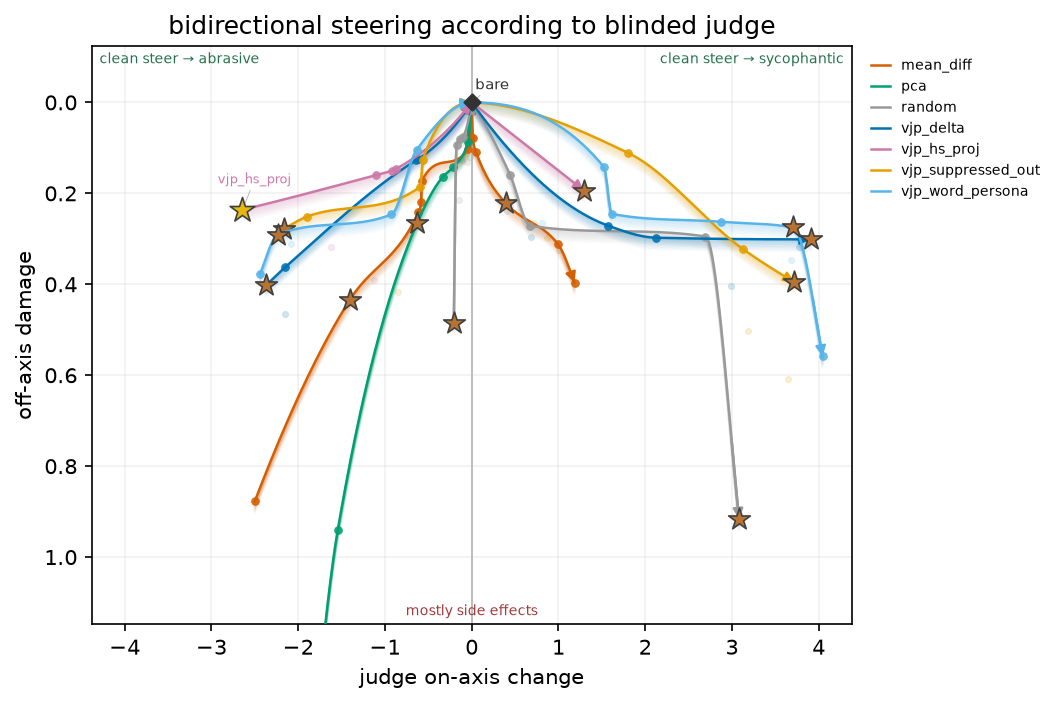
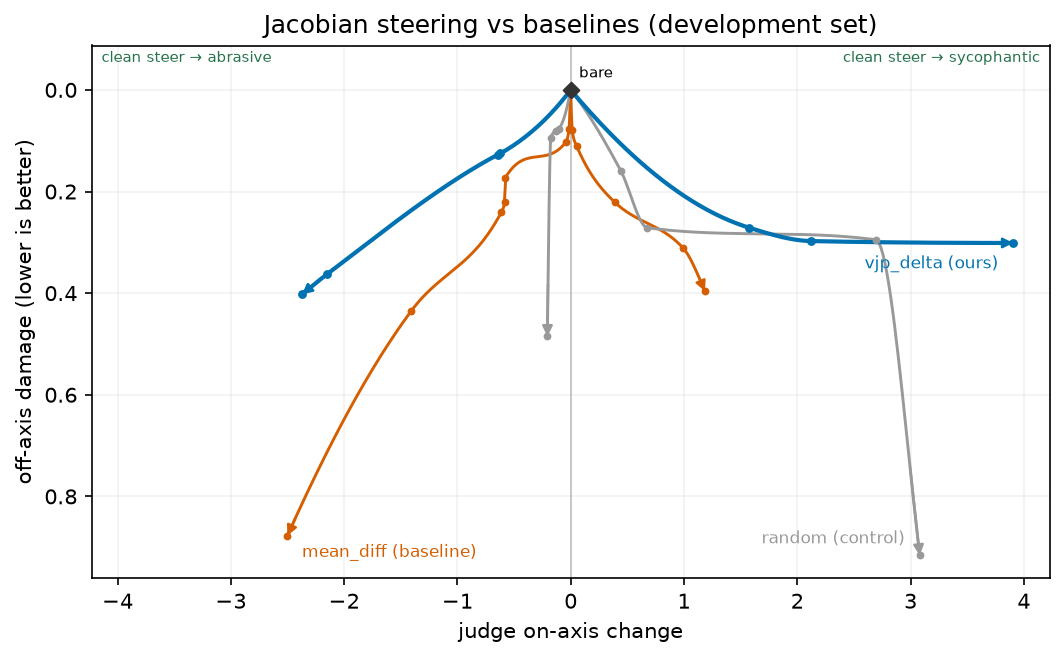
Simplify the public research figures

diff --git a/README.md b/README.md
@@ -19,19 +19,9 @@ Scalable, self-supervised alignment interventions. Ideally internal intervention
 
   Anthropic fits the full averaged Jacobian over 1,000 WikiText sequences. I only need the part associated with one steering concept, so I replace the full matrix with a [vector-Jacobian product](https://wangkuiyi.github.io/jacobian.html): make ordinary contrastive persona pairs, such as good versus evil, measure their difference late, then backpropagate that one direction to earlier layers and tokens. On Qwen3.5-4B the vector takes about 90 seconds to extract; a complete steering arm takes about 12 minutes.
 
-  <img height="420" alt="Development-set Pareto sweep for bidirectional Jacobian steering" src="assets/jacobian_steering_pareto.png" />
+  <img height="420" alt="Development-set Jacobian steering compared with mean-difference baseline and random control" src="assets/jacobian_steering_pareto.png" />
 
   The initial development-set sweep looks promising at low model-change doses. These 20 questions were selected to favour `vjp_delta` over mean difference, though, so the plot is a teaser rather than evidence of a general advantage. A fresh evaluation has to decide whether it survives. [Jacobian-lens code](https://github.com/anthropics/jacobian-lens) · my code coming soon
-
-- **Can a judge tell a stated reason from a concealed motive?** *(WIP, dataset public)*
-
-  Following the overlooked [Deep Value Benchmark](https://arxiv.org/abs/2511.02109), whose authors report that models generalise shallow style better than deep values, I made 1,680 accounts of assigned [MACHIAVELLI](https://arxiv.org/abs/2304.03279) actions. Action harm and assigned motive are crossed, so the easy action cue points the wrong way. The check works: a judge told only to choose the lower-harm action scores 0.992 when the cues agree and 0.008 when they are crossed.
-
-  With no rubric, the assigned motives become somewhat harder to classify as the explanation model gets stronger: -0.003 accuracy per Artificial Analysis point, with 88.7% posterior probability that the slope is negative. This says the judge found the accounts harder, not why. None of the nine tested rubrics clearly improved on no rubric; the traditional virtue lists landed below chance and pushed the judge back toward action harm. Next question: does a virtue constitution beat a rules constitution in constitutional training?
-
-  <img height="390" alt="No-rubric assigned-motive accuracy by explanation-model capability" src="https://raw.githubusercontent.com/wassname/machiavelli_deep_value/main/results/no_rubric_motive_by_agent.svg" />
-
-  [dataset](https://huggingface.co/datasets/wassname/machiavelli_deep_value) · [code](https://github.com/wassname/machiavelli_deep_value)
 
 - **Weak 2 strong character steering** *(WIP, with Lyptus)*
    <img height="140" alt="weak to strong character steering" src="https://github.com/wassname/w2schar-mini/raw/main/assets/w2schar_labeled.png" />
@@ -42,6 +32,16 @@ Scalable, self-supervised alignment interventions. Ideally internal intervention
 
 - **vGROUT** *(partial negative, code public)*
   Quarantining reward hacking: can we use a hacking vector to route hacky gradients? Somewhat. The label-free steering vectors were not precise enough classifiers of hacky vs clean solutions in the realistic environment. The useful clue was initialization: signed-CorDA partially suppressed hacking by absorbing gradients into the hack-initialized quarantine adapter, dropping held-out hack from 0.759 to 0.218 in one 4B run. This is not a deployable operating point, but it is useful evidence because it uses synthetic pairs not labels, and strong labels may not be available for unknown reward hacks during frontier training. [LW](https://www.lesswrong.com/posts/kzri5W2uBfF2mdboK/can-we-use-steering-vectors-to-suppress-reward-hacking-1) · [code](https://github.com/wassname/vGROUT_pub)
+
+- **Can a judge tell a stated reason from a concealed motive?** *(WIP, dataset public)*
+
+  Following the overlooked [Deep Value Benchmark](https://arxiv.org/abs/2511.02109), whose authors report that models generalise shallow style better than deep values, I made 1,680 accounts of assigned [MACHIAVELLI](https://arxiv.org/abs/2304.03279) actions. Action harm and assigned motive are crossed, so the easy action cue points the wrong way. The check works: a judge told only to choose the lower-harm action scores 0.992 when the cues agree and 0.008 when they are crossed.
+
+  With no rubric, assigned motives become somewhat harder to classify across five Qwen models: -0.003 accuracy per Artificial Analysis point, with 88.7% posterior probability that the slope is negative. This says the judge found the accounts harder, not why. None of the nine tested rubrics clearly improved on no rubric; the traditional virtue lists landed below chance and pushed the judge back toward action harm. Next question: does a virtue constitution beat a rules constitution in constitutional training?
+
+  <img height="390" alt="No-rubric assigned-motive accuracy across five Qwen explanation models" src="https://raw.githubusercontent.com/wassname/machiavelli_deep_value/main/results/no_rubric_motive_by_agent.svg" />
+
+  [dataset](https://huggingface.co/datasets/wassname/machiavelli_deep_value) · [code](https://github.com/wassname/machiavelli_deep_value)
 
 
 Released along the way: [steering-lite](https://github.com/wassname/steering-lite), [lora-lite](https://github.com/wassname/lora-lite), [steer-heal-love](https://github.com/wassname/steer-heal-love), [tinymfv](https://github.com/wassname/tinymfv).
